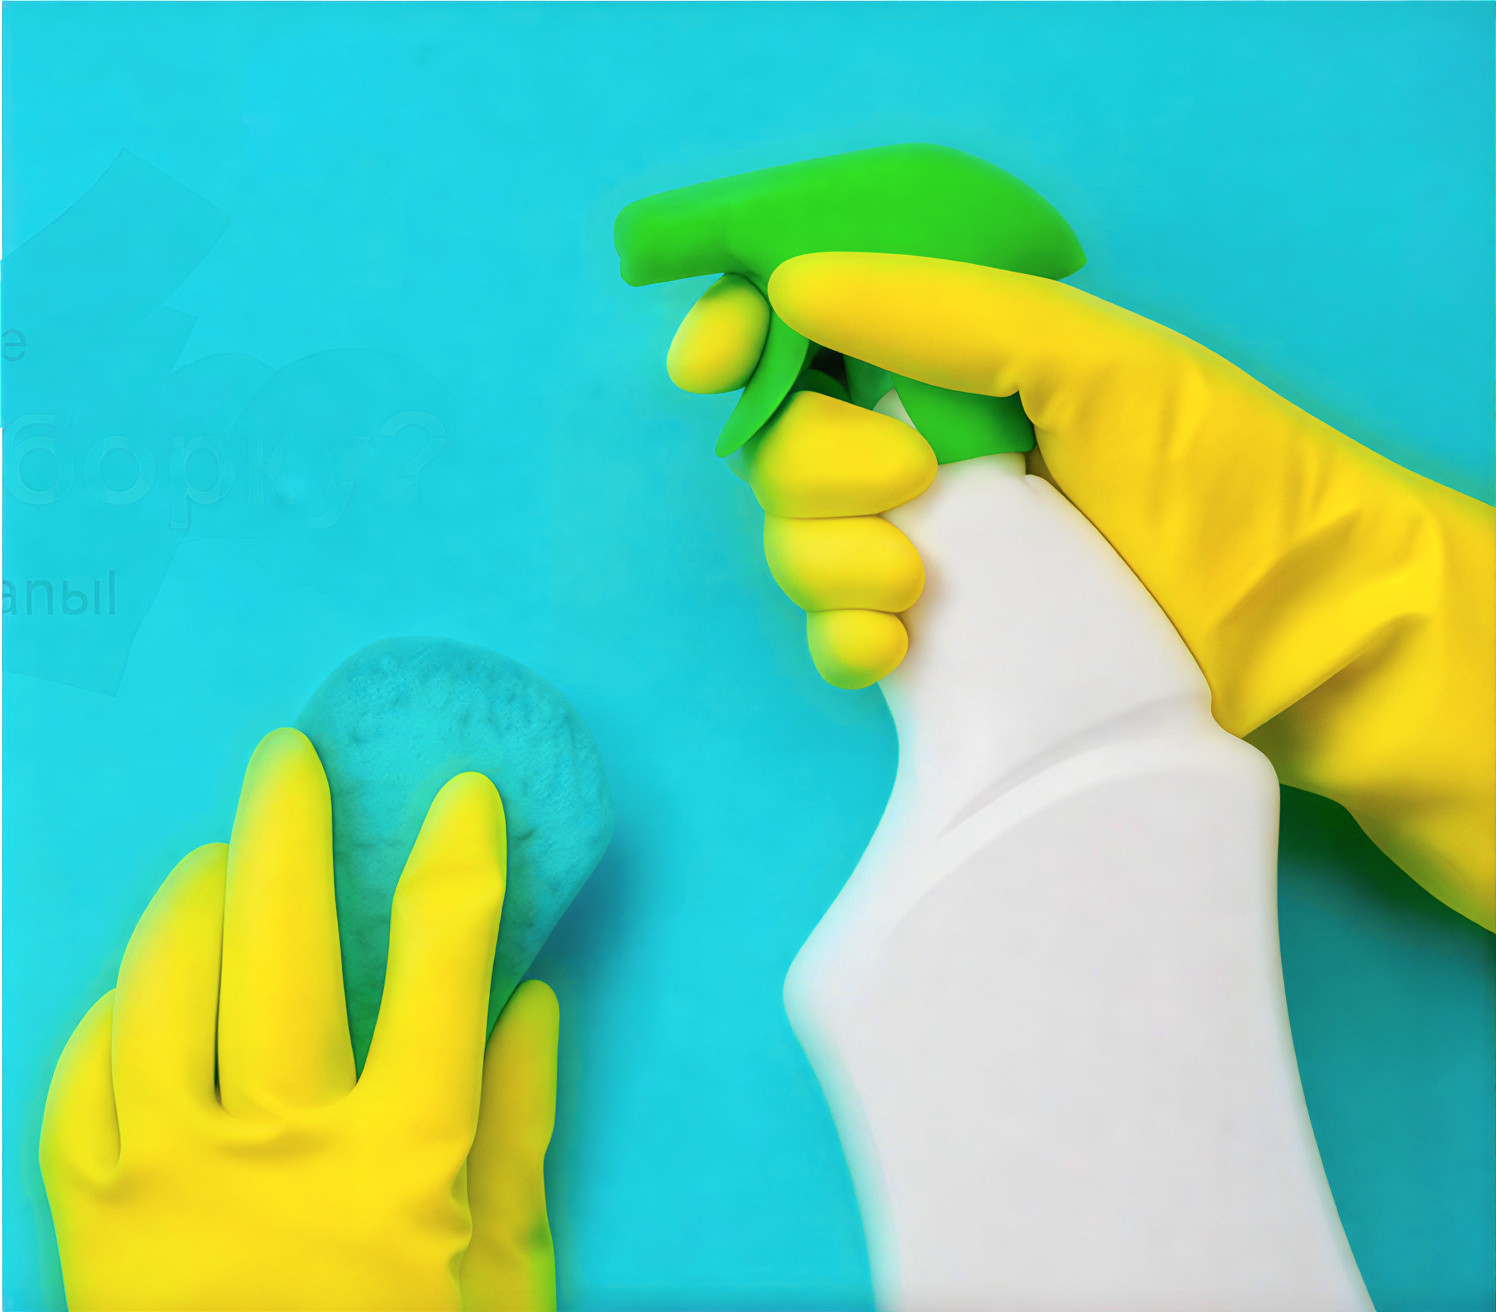
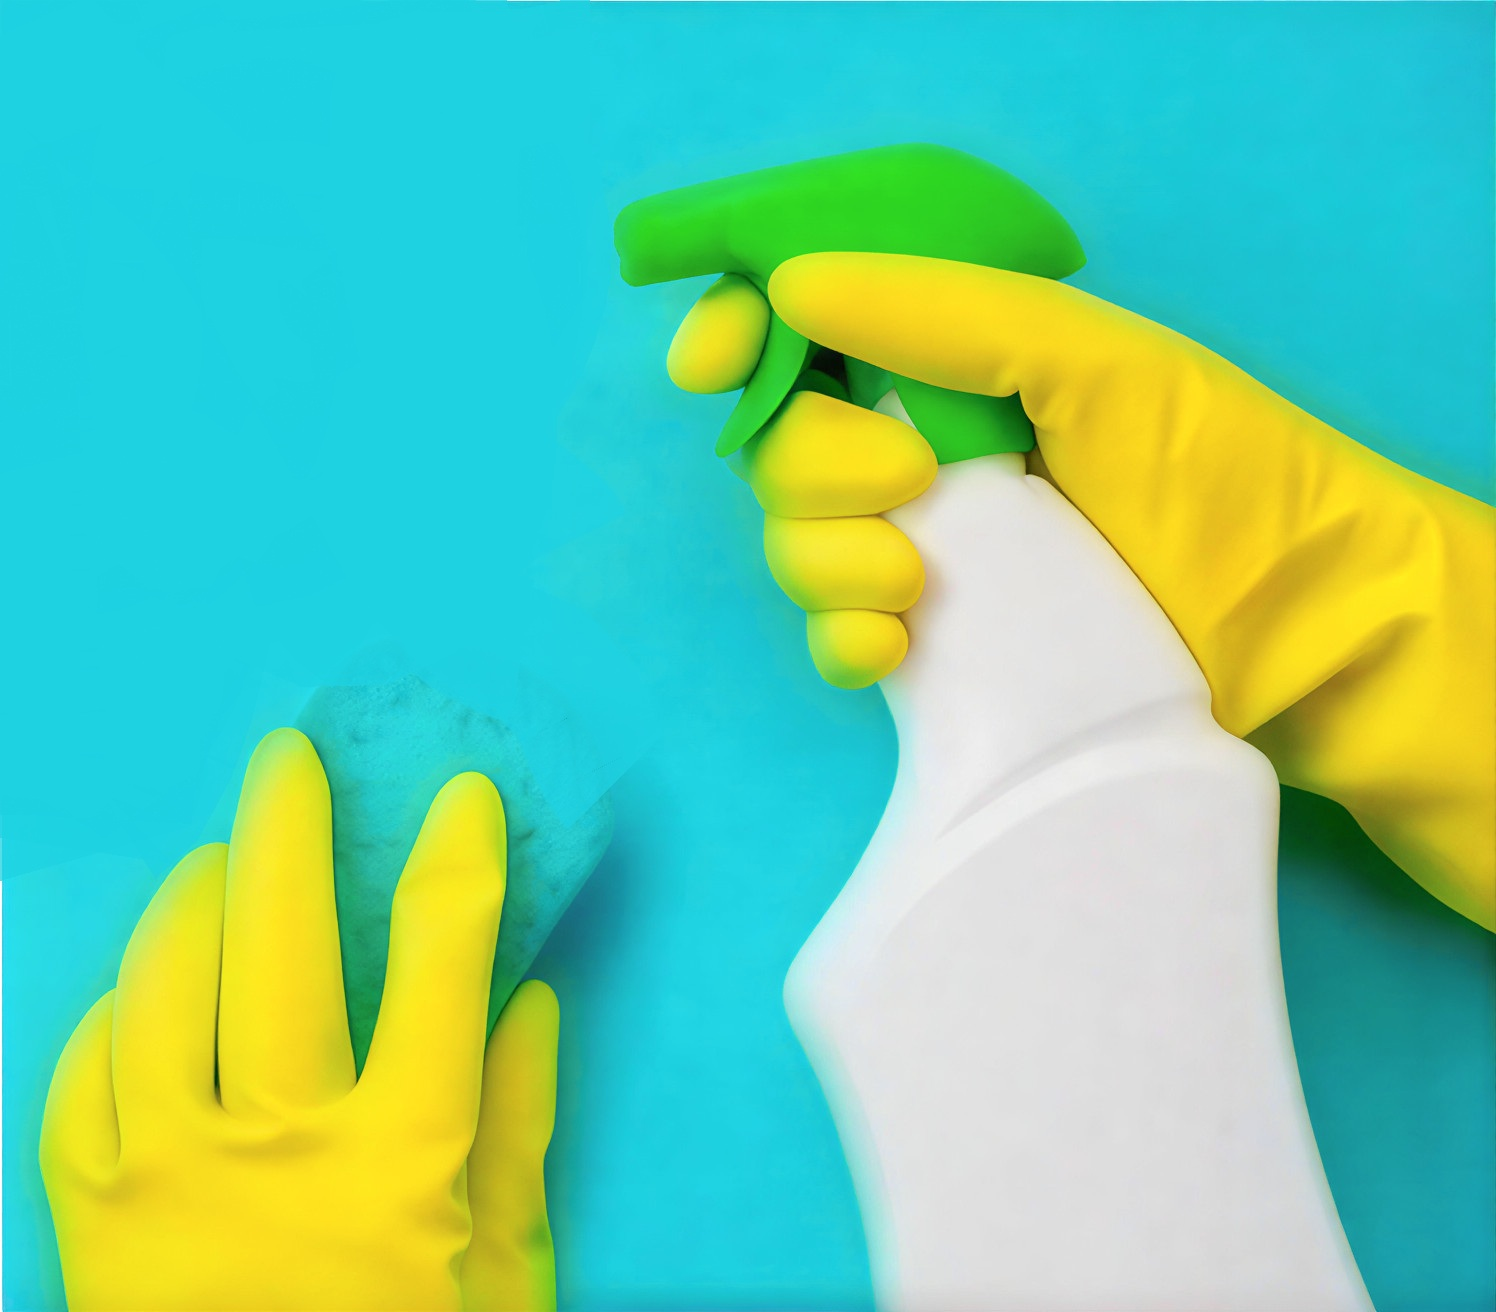
win

diff --git a/index.html b/index.html
@@ -1242,15 +1242,15 @@
             <!-- Текстовая часть -->
             <div class="space-y-6">
               <!-- Заголовок КЛИНИНГОВАЯ КОМПАНИЯ CRYSTAL -->
-            <h1 class="md:text-3xl lg:text-4xl font-bold text-white">
-              Клининговая компания <span class="text-blue-400 font-bold">CRYSTAL</span> для дома и бизнеса в Ростове
+            <h1 class="md:text-3xl lg:text-2xl font-bold text-white">
+              Клининговая компания <span class="text-blue-400 font-bold">CRYSTAL</span> <br>для дома и бизнеса в Ростове
             </h1>  
               <!-- Основной заголовок -->
               <div class="space-y-3">
-                <div class="text-2xl md:text-3xl lg:text-4xl font-bold text-white">
+                <div class="text-2xl md:text-3xl lg:text-5xl font-bold text-white">
                   Нет времени на уборку?
                 </div>
-                <div class="text-2xl md:text-3xl lg:text-3xl font-bold text-white">
+                <div class="text-2xl md:text-2xl lg:text-2xl font-bold text-white">
                   Пусть её за вас сделают профессионалы!
                 </div>
               </div>
@@ -1350,7 +1350,6 @@
                   <i class="fas fa-comments text-white/90"></i>
                   Напишите нам
                 </h3>
-                
                 <div class="space-y-3">
                   <a href="https://t.me/Kristal_R" target="_blank" 
                      class="flex items-center gap-3 p-3 bg-white/5 hover:bg-white/10 rounded-lg transition-colors">
@@ -1362,7 +1361,6 @@
                       <div class="text-sm text-white/80">@Kristal_R</div>
                     </div>
                   </a>
-                  
                   <a href="https://wa.me/79064449048" target="_blank" 
                      class="flex items-center gap-3 p-3 bg-white/5 hover:bg-white/10 rounded-lg transition-colors">
                     <div class="w-10 h-10 bg-green-500 rounded-full flex items-center justify-center">
@@ -1371,6 +1369,16 @@
                     <div>
                       <div class="font-semibold text-white">WhatsApp</div>
                       <div class="text-sm text-white/80">+7 (906) 444-90-48</div>
+                    </div>
+                  </a>
+                  <a href="https://vk.ru/ccleancristal" target="_blank" 
+                     class="flex items-center gap-3 p-3 bg-white/5 hover:bg-white/10 rounded-lg transition-colors">
+                    <div class="w-10 h-10 bg-blue-500 rounded-full flex items-center justify-center">
+                      <i class="fab fa-vk text-white"></i>
+                    </div>
+                    <div>
+                      <div class="font-semibold text-white">VK</div>
+                      <div class="text-sm text-white/80">Ccleancristal</div>
                     </div>
                   </a>
                 </div>
